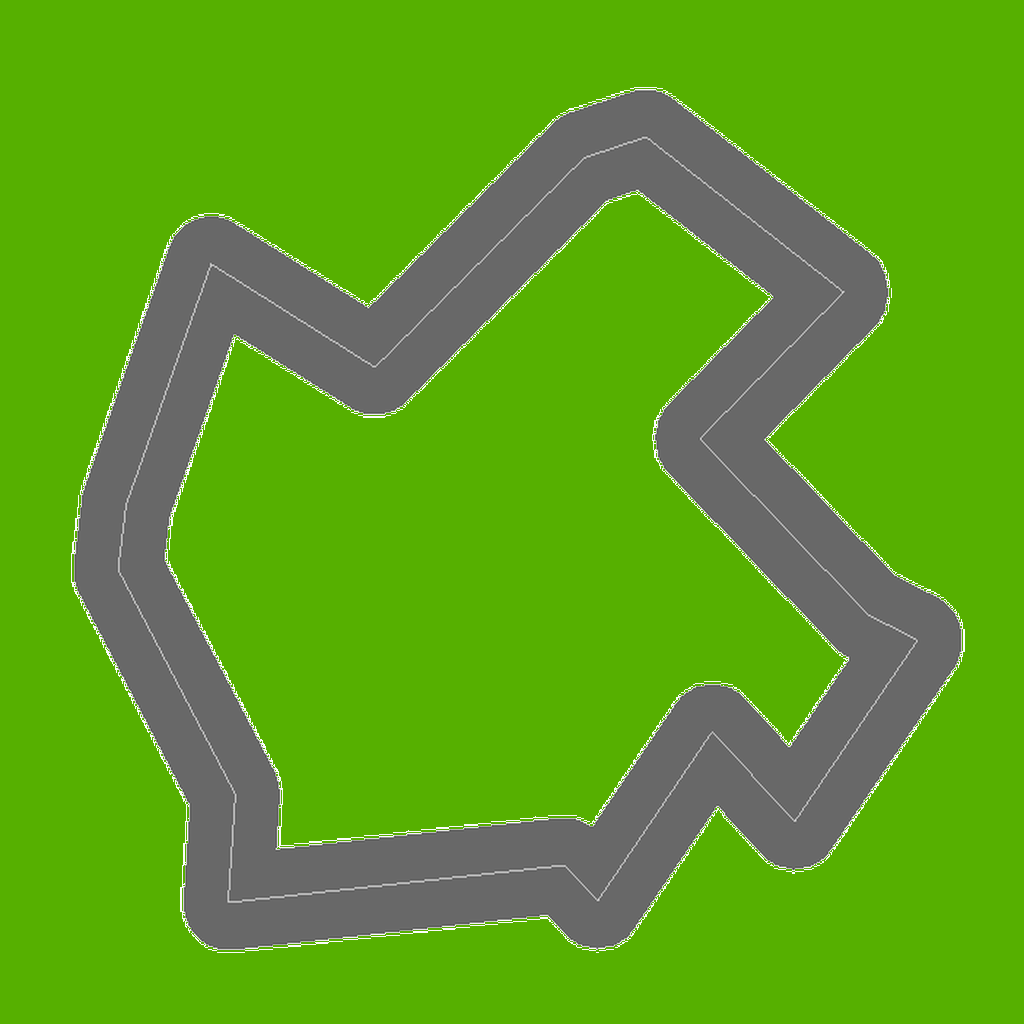
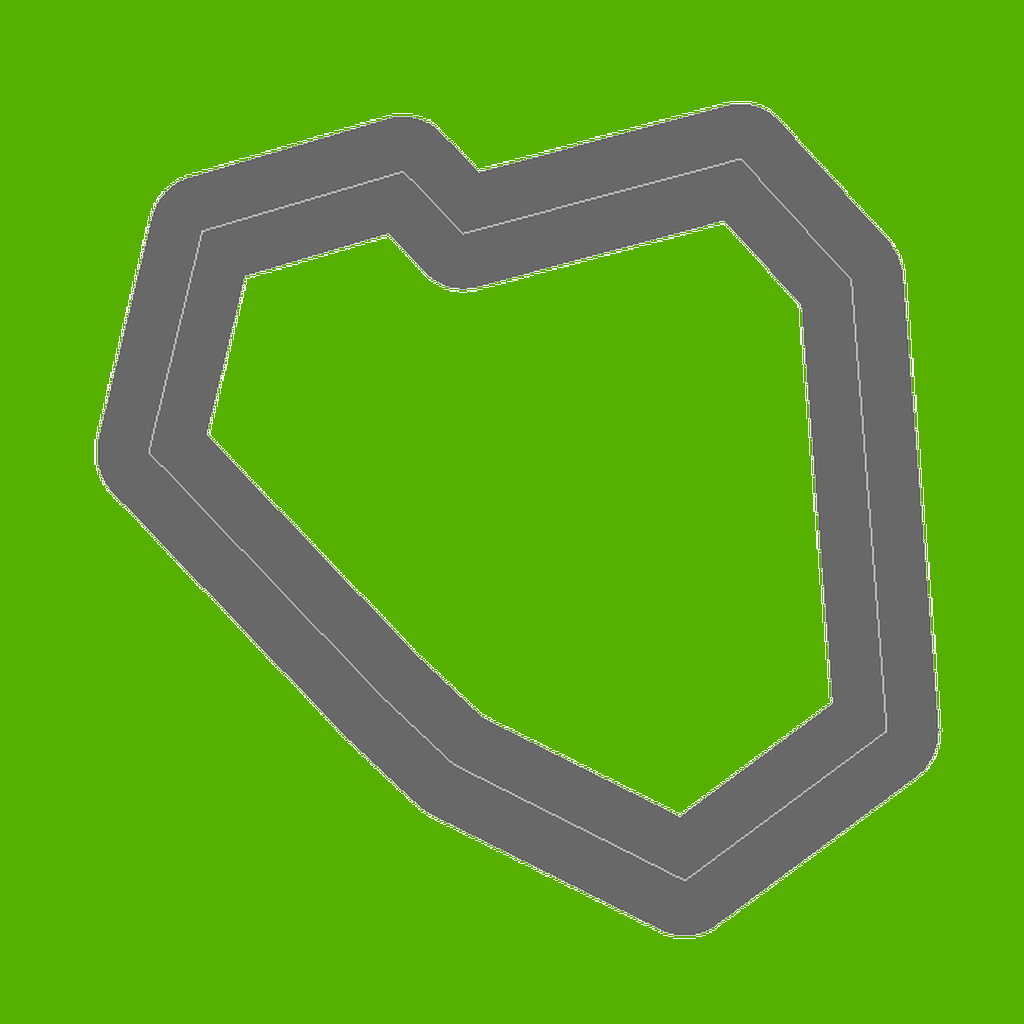
make turns less sharp

diff --git a/gentrack.py b/gentrack.py
@@ -67,6 +67,9 @@ def run():
     pts = rset
 
     def fixAngles(ps):
+
+        angl = 60
+
         for i in range(len(ps)):
             prev = (i-1)%len(ps)
             next = (i+1)%len(ps)
@@ -83,8 +86,8 @@ def run():
             nx /= nl
             ny /= nl
             a = atan2(px*ny-py*nx,px*nx+py*ny)
-            if abs(a) > 5/9*pi:
-                nA = 100 * a / abs(a) * pi / 180
+            if abs(a) > angl * pi / 180:
+                nA = angl * a / abs(a) * pi / 180
                 diff = nA - a
                 c = cos(diff)
                 s = sin(diff)
@@ -137,7 +140,7 @@ def run():
             pts[i][0] -= dx
             pts[i][1] -= dy
 
-        penwidth = 60
+        penwidth = 70
     
         for i in range(len(pts)):
             pts[i][0] = pts[i][0] / squarelength * (800 - penwidth*4.2)
